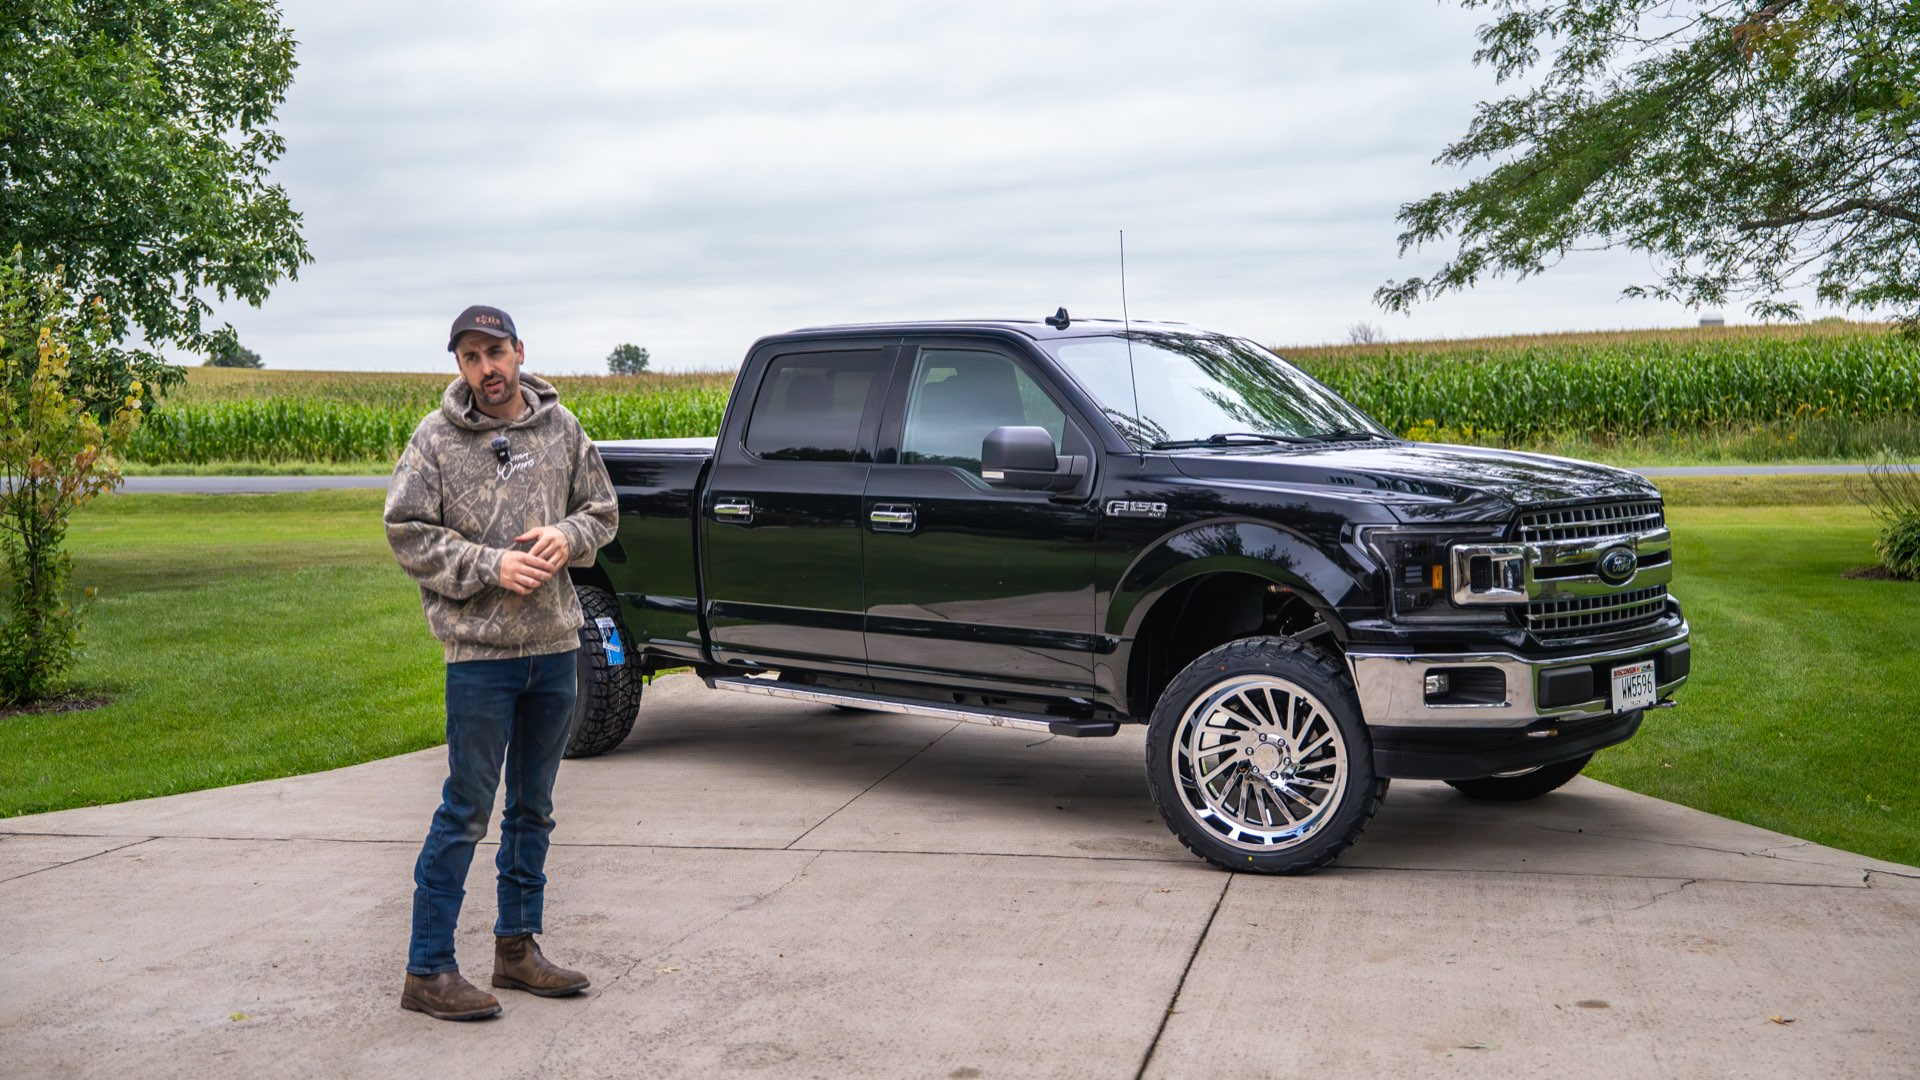
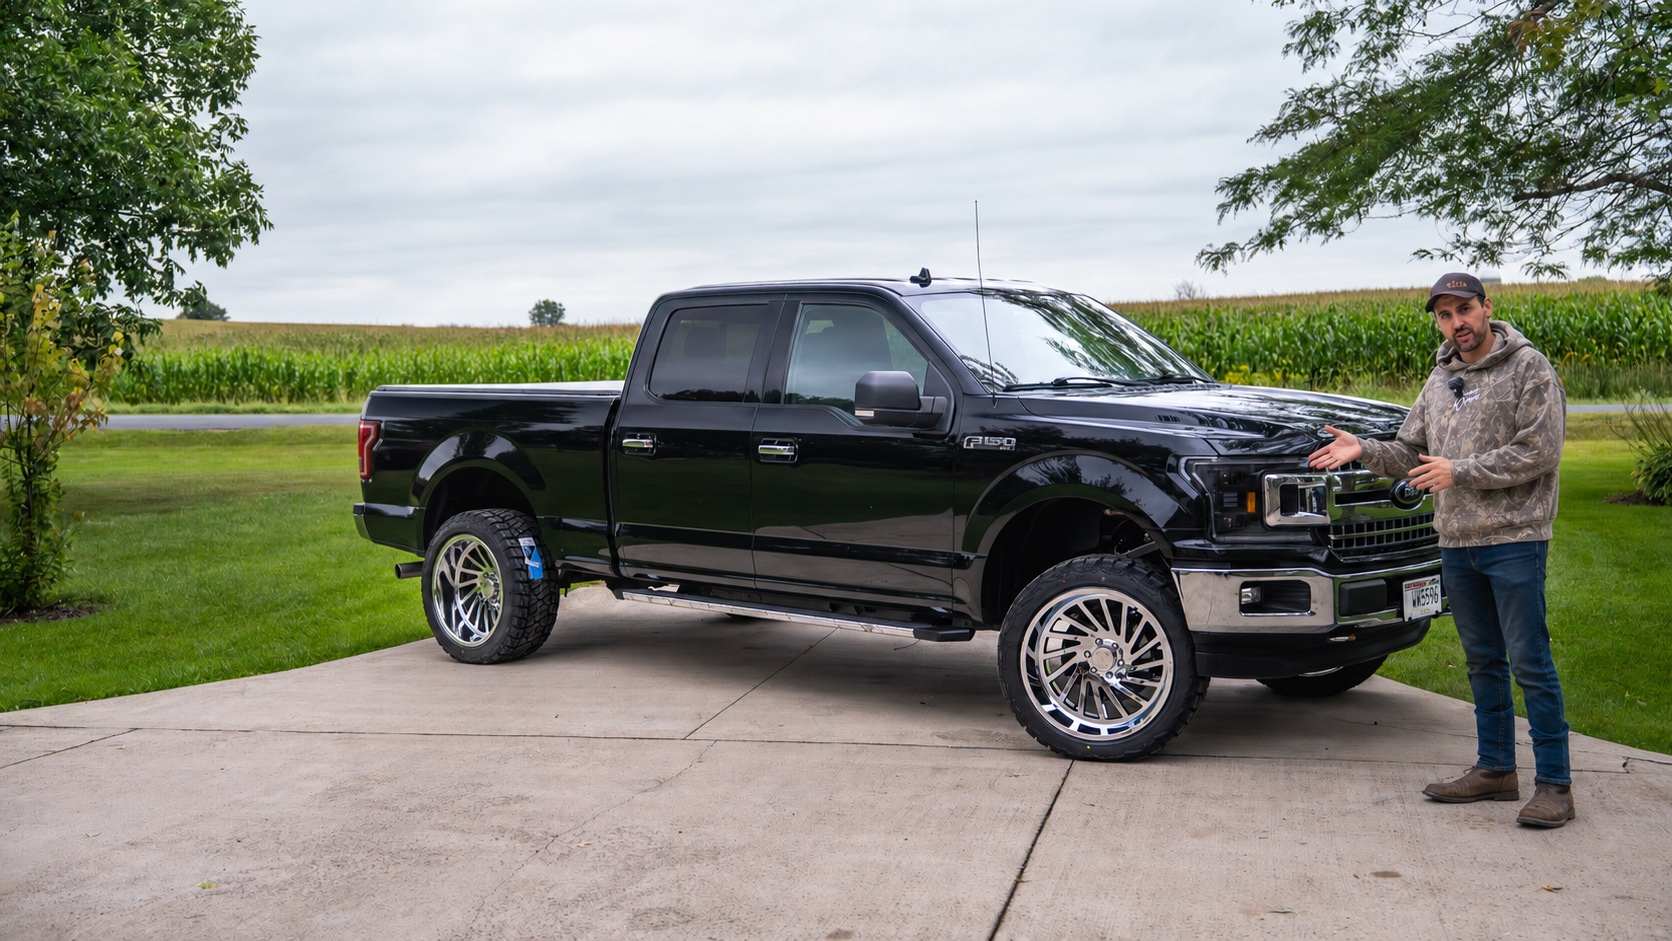
Swap in better story-background photo, both worker and truck in frame
New stakeholder photo has the worker and truck flipped (truck left,
worker right) and both fully visible at a wider angle, so the round-22
worker-vs-truck crop trade-off is no longer needed. Flipped
background-position back to right-anchored to match the new layout.

diff --git a/styles.css b/styles.css
@@ -473,7 +473,7 @@ h1.display .l2{display:block;color:var(--red-hot)}
       linear-gradient(to right, var(--ink) 0%, var(--ink) 27%, rgba(10,10,11,.78) 42%, rgba(10,10,11,.5) 65%, rgba(10,10,11,.32) 100%),
       url('assets/story-background.jpg');
     background-repeat:no-repeat;
-    background-position:left center, 0% center;
+    background-position:right center, 100% center;
     background-size:auto, cover;
   }
 }

diff --git a/README.md b/README.md
@@ -695,3 +695,21 @@ text. Checked every paragraph's rightmost extent against the new curve at 1440 a
 all still comfortably legible, including where headings text now runs directly over his hoodie at
 1024px (lower contrast there than elsewhere, but still readable). No horizontal overflow at either
 width. Mobile is unaffected — the photo still only shows at 1001px and up, same gate as before.
+
+---
+
+## 23. Round 23: better source photo replaces the worker/truck trade-off entirely
+
+A new stakeholder photo (`truck_image.png`, 1672x941) landed loose in `assets/` with the worker
+and truck flipped from the old `story-background.jpg`: truck on the left/center, worker on the
+right, both fully in frame together at a wider angle. Converted to `assets/story-background.jpg`
+(same filename the CSS already points at, quality 85 JPEG, no resize needed) and the original kept
+at `raw-originals/truck_image.png`.
+
+This retires the round-22 trade-off. Flipped `background-position` back to `right center, 100%
+center` to match the new photo's layout (worker now lands in the crop's right/visible side instead
+of needing the left pan), and kept the round-22 lightened gradient as-is - it happens to suit this
+photo well too. Result: the worker is fully visible AND the truck's grille, hood, and front fender
+are in frame (previously it was one or the other). Verified no horizontal overflow at 1001, 1024,
+1280, 1440, and 1920px wide, and that text stays legible at every width, including where it crosses
+his hoodie at 1024px.
